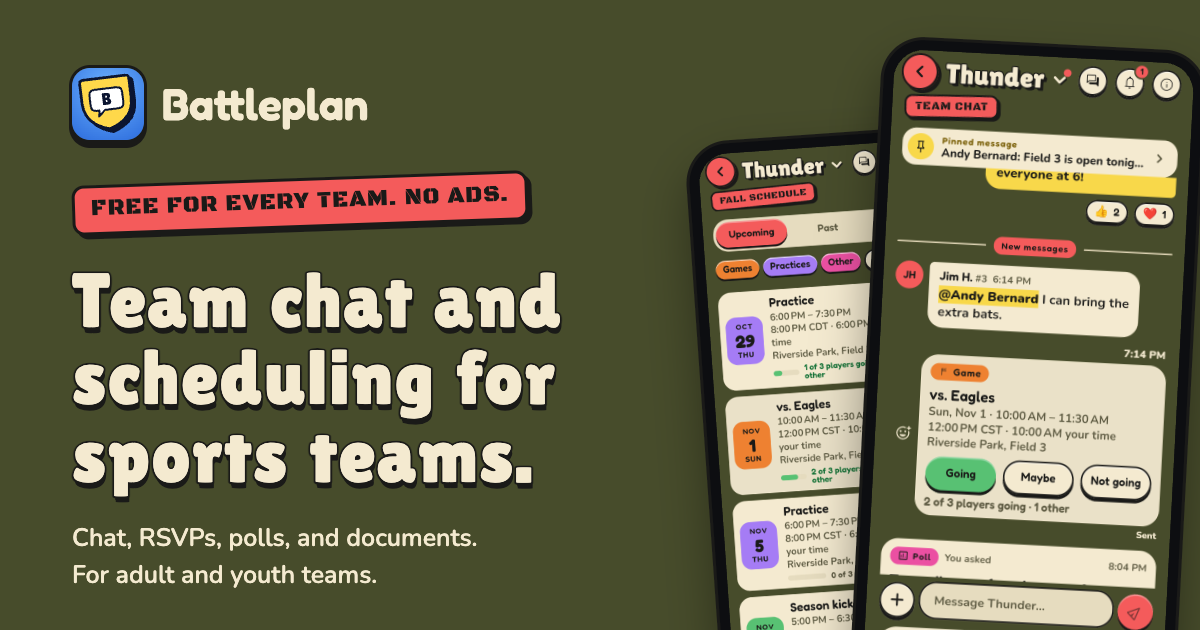
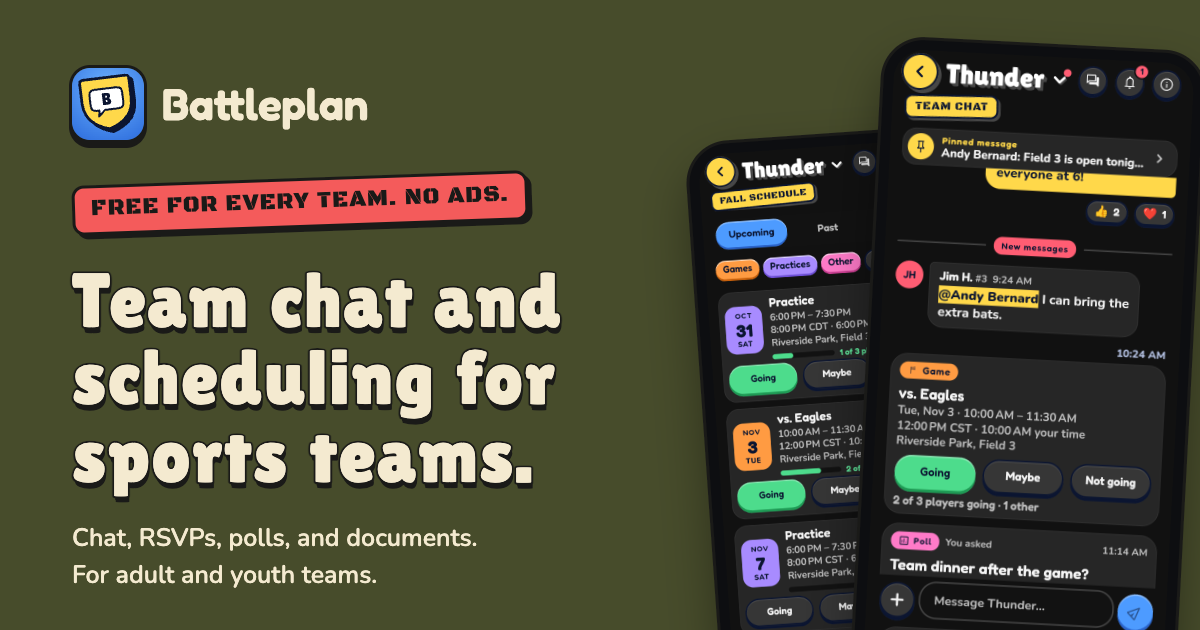
Landing page screenshots in Gumdrop Pop Dark on black
All ten shots and og.png are retaken from today's app on the emulators in
Gumdrop Pop Dark with each team's color set to Black, as images/*-dark.webp;
the Olive set is gone. The website README says how to take them.

diff --git a/website/index.html b/website/index.html
@@ -72,12 +72,12 @@
         <div class="hero-shots">
           <div class="phone">
             <picture>
-              <img src="/images/chat-olive.webp" width="600" height="1298" alt="The team chat in Battleplan: the coach's announcement with thumbs-up and heart reactions, then new messages: a player mentions the coach, a game card for the game against the Eagles with Going, Maybe, and Not going, and a poll about the team dinner.">
+              <img src="/images/chat-dark.webp" width="600" height="1298" alt="The team chat in Battleplan: the coach's announcement with thumbs-up and heart reactions, then new messages: a player mentions the coach, a game card for the game against the Eagles with Going, Maybe, and Not going, and a poll about the team dinner.">
             </picture>
           </div>
           <div class="phone sm" aria-hidden="true">
             <picture>
-              <img src="/images/teams-olive.webp" width="600" height="1298" alt="">
+              <img src="/images/teams-dark.webp" width="600" height="1298" alt="">
             </picture>
           </div>
         </div>
@@ -108,7 +108,7 @@
             <div class="feature-media">
               <div class="phone sm">
                 <picture>
-                  <img src="/images/conversation-olive.webp" width="600" height="1298" loading="lazy" alt="A team chat: a guardian asks who can carpool, another guardian replies to that message and gets a heart, the coach thanks that guardian with an @mention and the kickoff time, and a new message about a player's cleats.">
+                  <img src="/images/conversation-dark.webp" width="600" height="1298" loading="lazy" alt="A team chat: a guardian asks who can carpool, another guardian replies to that message and gets a heart, the coach thanks that guardian with an @mention and the kickoff time, and a new message about a player's cleats.">
                 </picture>
               </div>
             </div>
@@ -128,12 +128,12 @@
             <div class="feature-media pair">
               <div class="phone sm">
                 <picture>
-                  <img src="/images/event-olive.webp" width="600" height="1298" loading="lazy" alt="Event details for a game against the Eagles: date and time, opponent and home, the field with directions, a reminder one day before, Going, Maybe, and Not going buttons, and who's going: 2 of 3 players, each with who answered.">
+                  <img src="/images/event-dark.webp" width="600" height="1298" loading="lazy" alt="Event details for a game against the Eagles: date and time, opponent and home, the field with directions, a reminder one day before, Going, Maybe, and Not going buttons, and who's going: 2 of 3 players, each with who answered.">
                 </picture>
               </div>
               <div class="phone sm">
                 <picture>
-                  <img src="/images/schedule-olive.webp" width="600" height="1298" loading="lazy" alt="The team schedule: practices, a game against the Eagles, and a season kickoff barbecue, each with its time, place, your answer, and how many players are going.">
+                  <img src="/images/schedule-dark.webp" width="600" height="1298" loading="lazy" alt="The team schedule: two practices and a game against the Eagles, each with its time, place, how many players are going, and Going, Maybe, and Not going to answer right there.">
                 </picture>
               </div>
             </div>
@@ -153,7 +153,7 @@
             <div class="feature-media">
               <div class="phone sm">
                 <picture>
-                  <img src="/images/poll-olive.webp" width="600" height="1298" loading="lazy" alt="A poll in the team chat that takes more than one answer: which tournament weekend works? Nov 7–8 has 3 votes, Nov 14–15 has 2, and Dec 5–6 has none. Four people have voted; below, two guardians answer and the coach picks the weekend.">
+                  <img src="/images/poll-dark.webp" width="600" height="1298" loading="lazy" alt="A poll in the team chat that takes more than one answer: which tournament weekend works? Nov 7–8 has 3 votes, Nov 14–15 has 2, and Dec 5–6 has none. Four people have voted; below, two guardians answer and the coach picks the weekend.">
                 </picture>
               </div>
             </div>
@@ -173,7 +173,7 @@
             <div class="feature-media">
               <div class="phone sm">
                 <picture>
-                  <img src="/images/documents-olive.webp" width="600" height="1298" loading="lazy" alt="The Documents tab: a pinned Saturday lineup and league rules, a practice plan, a link to field directions, and a player waiver, each with its size, who added it, and when.">
+                  <img src="/images/documents-dark.webp" width="600" height="1298" loading="lazy" alt="The Documents tab: a pinned Saturday lineup and league rules, a practice plan, a link to field directions, and a player waiver, each with its size, who added it, and when.">
                 </picture>
               </div>
             </div>
@@ -193,7 +193,7 @@
             <div class="feature-media">
               <div class="phone sm">
                 <picture>
-                  <img src="/images/youth-olive.webp" width="600" height="1298" loading="lazy" alt="A guardian's RSVPs for practice, for two players: one answer for both, or one each. Luke #7 is going and Alex #9 hasn't answered yet. Below, 1 of 4 players going, each with the person who answered for them.">
+                  <img src="/images/youth-dark.webp" width="600" height="1298" loading="lazy" alt="A guardian's RSVPs for practice, for two players: one answer for both, or one each. Luke #7 is going and Alex #9 hasn't answered yet. Below, 1 of 4 players going, each with the person who answered for them.">
                 </picture>
               </div>
             </div>
@@ -214,12 +214,12 @@
               <div class="slides" role="region" aria-roledescription="carousel" aria-label="Plays on the whiteboard" tabindex="0">
                 <div class="phone sm" role="group" aria-roledescription="slide" aria-label="Baseball">
                   <picture>
-                    <img src="/images/whiteboard-olive.webp" width="600" height="1298" loading="lazy" alt="Plays, the coach's whiteboard: a relay home from right-center on a baseball diamond. The right fielder has the ball at the fence, the center fielder beside him, and throws to the second baseman, the relay. The first baseman is the cutoff on the line to the plate: the throw goes home, or he cuts it and throws to second. A runner in red heads home and the batter heads for second; the shortstop covers second, the left fielder backs up third, and the pitcher backs up the catcher. It's step 2 of 2, with a play button and the tools to move, add, and draw.">
+                    <img src="/images/whiteboard-dark.webp" width="600" height="1298" loading="lazy" alt="Plays, the coach's whiteboard: a relay home from right-center on a baseball diamond. The right fielder has the ball at the fence, the center fielder beside him, and throws to the second baseman, the relay. The first baseman is the cutoff on the line to the plate: the throw goes home, or he cuts it and throws to second. A runner in red heads home and the batter heads for second; the shortstop covers second, the left fielder backs up third, and the pitcher backs up the catcher. It's step 2 of 2, with a play button and the tools to move, add, and draw.">
                   </picture>
                 </div>
                 <div class="phone sm" role="group" aria-roledescription="slide" aria-label="Basketball">
                   <picture>
-                    <img src="/images/whiteboard-basketball-olive.webp" width="600" height="1298" loading="lazy" alt="A pick and roll on a basketball half court: the offense in blue and the defense in red, the center coming up to set a screen for the point guard, who dribbles to the right off it, step 1 of 2.">
+                    <img src="/images/whiteboard-basketball-dark.webp" width="600" height="1298" loading="lazy" alt="A pick and roll on a basketball half court: the offense in blue and the defense in red, the center coming up to set a screen for the point guard, who dribbles to the right off it, step 1 of 2.">
                   </picture>
                 </div>
               </div>

diff --git a/website/README.md b/website/README.md
@@ -15,7 +15,7 @@ The static website at the root of `getbattleplan.app` (SPEC §4.3 WEB-1 to WEB-5
 | `site.css` | All styles, in one theme: Gumdrop Army, the app's default (an army-green page with cream text, cream cards with ink text, gumdrop buttons outlined in ink on a hard ink lip, coral accents, and cream Lilita One headings outlined in ink over a stacked ink shadow; headings on the cream cards are plain ink, with no shadow). No light theme and no `prefers-color-scheme` switch |
 | `fonts/` | Lilita One (headings), Fredoka (buttons, labels, questions), Nunito (body), and Black Ops One (the coral sticker, capitals only) as Latin `woff2` files from Google Fonts, served from this site so it makes no third-party requests, with each font's `*-OFL.txt` license. Fredoka and Nunito are variable fonts (one file covers every weight) |
 | `favicon.svg`, `favicon-32.png`, `apple-touch-icon.png` | Icons: the brand mark (SPEC §7.1). `favicon.svg` is also the header mark; `tools/brand_icons.sh` makes the PNGs from it and `assets/brand/icon.svg` |
-| `images/*-olive.webp` | App screenshots in Gumdrop Army, 600 × 1298 |
+| `images/*-dark.webp` | App screenshots in Gumdrop Pop Dark with the teams' color set to Black, 600 × 1298 |
 | `images/og.png` | Open Graph and Twitter card image, 1200 × 630 |
 | `robots.txt`, `sitemap.xml` | The site is indexed; `/app/` is not |
 
@@ -27,7 +27,7 @@ Hosting serves `support.html` at `/support` because `firebase.json` sets `cleanU
 - Colors: use the tokens on `:root` in `site.css` (the app's Gumdrop Army colors): `--text` and `--muted` on the olive page, `--card-text`, `--card-muted`, and `--card-link` on cream cards. Text needs 4.5:1 contrast on its background; the coral is for faces with ink on them, never for text on the page.
 - Each page carries its own header and footer. When you change the nav or footer, change it in all six HTML files.
 - Keep the page `<title>`, `description`, `og:*`, and `twitter:*` tags in step when you change a page's purpose.
-- Images: give every `<img>` a `width`, `height`, and real `alt` text (or `alt=""` when decorative). Screenshots use the `-olive` capture. Keep `images/` under about 2 MB.
+- Images: give every `<img>` a `width`, `height`, and real `alt` text (or `alt=""` when decorative). Screenshots use the `-dark` capture. Keep `images/` under about 2 MB.
 - Text and UI paths should match the app's English strings (`lib/l10n/app_en.arb`), for example **Settings** → **Delete account**.
 - On the landing page, say **players** and **guardians**: never kids, children, or parents (the owner's rule, 2026-10-16). Accounts are for adults; players who don't use the app are roster entries their guardians answer for.
 - A pair of phones (`feature-media pair`) shows both side by side from 1100 px and only the first below that. Add `slider`, with the phones in a `slides` div and a `slider-dots` div after it, as the Plays pair has, to let narrower screens swipe between them.
@@ -57,7 +57,7 @@ The screenshots show the app with the seeded sample teams (Thunder, Cyclone, and
 | `whiteboard` | `coach@example.com` | Cyclone's whiteboard with **Relay home from right-center** on it, at **Next step** (step 2 of 2, the throws: RF to 2B, the relay, to 1B, the cutoff) |
 | `whiteboard-basketball` | `coach@example.com` | Thunder's whiteboard with **Pick and roll** on it (step 1 of 2) |
 
-The current set (Gumdrop Army, 2026-10-27; the shots with a sticker retaken 2026-10-28 for its stencil font) are captures of the real web app against the emulators: start them, seed them (DEVELOPMENT.md), and build from a scratch copy with `bannerLabel` in `lib/core/env.dart` returning null (never commit that), with `flutter build web -t lib/main_dev.dart --dart-define=USE_EMULATORS=true --no-web-resources-cdn --base-href /app/` (CanvasKit: headless Chrome doesn't paint the wasm build), plus `tools/fetch_fallback_fonts.dart` into its `fonts/fallback/` for the emoji. Serve it under `/app/` and drive headless Chrome at 390 × 844 with a device scale of 600 / 390: hide `.firebase-emulator-warning`, sign in, open each screen by its route (`history.pushState` and a `popstate` event, since a reload signs out), and press buttons through the semantics tree (clicking a `flt-semantics[role=button]` element), since synthetic mouse clicks don't reach some of them. Take Thunder's chat first after seeding, so it opens at the first unread message. Then convert each PNG to WebP at quality 80 (headless Chrome's `canvas.toDataURL('image/webp', 0.8)` works where `cwebp` isn't installed) as `images/<name>-olive.webp`.
+The current set (Gumdrop Pop Dark on black, 2026-10-29, the owner's request) are captures of the real web app against the emulators: start them, seed them (DEVELOPMENT.md), set `themeMode` to `dark` on `users/coach`, `users/claire`, and `users/rachel` and `color` to `#111111` (Black) on `groups/thunder`, `groups/cyclone`, and `groups/possums` (the emulator's REST API with `Authorization: Bearer owner`), and build from a scratch copy with `bannerLabel` in `lib/core/env.dart` returning null (never commit that), with `flutter build web -t lib/main_dev.dart --dart-define=USE_EMULATORS=true --no-web-resources-cdn --base-href /app/` (CanvasKit: headless Chrome doesn't paint the wasm build), plus `tools/fetch_fallback_fonts.dart` into its `fonts/fallback/` for the emoji. Serve it under `/app/` and drive headless Chrome at 390 × 844 with a device scale of 600 / 390: hide `.firebase-emulator-warning`, sign in with the keyboard alone (Tab to Email and to Password, typing in each, then Sign in through the semantics tree: Flutter keeps a mouse's hover where it last clicked, which lights up whatever later sits there), open each screen by its route (`history.pushState` and a `popstate` event, since a reload signs out), and press buttons through the semantics tree (clicking a `flt-semantics[role=button]` element), since synthetic mouse clicks don't reach some of them. Take Thunder's chat first after seeding, so it opens at the first unread message. Then convert each PNG to WebP at quality 80 (headless Chrome's `canvas.toDataURL('image/webp', 0.8)` works where `cwebp` isn't installed) as `images/<name>-dark.webp`.
 
 Regenerate `images/og.png` at 1200 × 630 from the new `chat` and `schedule` shots, keeping its layout: the brand mark, the coral sticker (in Black Ops One), and the heading and copy on the left, the chat in front of the schedule on the right. It's a plain HTML page using `fonts/` and the two PNG captures, screenshotted in headless Chrome at 1200 × 630.
 

diff --git a/docs/ROADMAP.md b/docs/ROADMAP.md
@@ -288,6 +288,7 @@ The owner's request (2026-10-25): Gumdrop Pop Navy as the default look, named Gu
 320. ✅ Going, Maybe, and Not going on each event in the schedule (owner's request 2026-10-28: "add the ability for guardians to mark going/not going/maybe directly from the listing of events… if one of the options is selected, clicking on that option again unselects it", after the TeamApp-style mockup; SPEC SCHED-4). *An upcoming event I can still answer has the three buttons across the bottom of its card, under the counts, as the chat card has them: a set for each person I answer for, named when there's more than one, with Maybe only where the team allows it. A tap answers; a tap on the chosen answer clears it. They replace the answer sheet the list opened since 2026-10-26; notes and All my players are on the event's page. Past, canceled, and closed events still show my answer as before. The accessibility check scrolls the list so no answer sits under the + button, which it would otherwise read as their color.*
 321. ✅ Groups beside teams (owner's request 2026-10-29: "add a generic group to the new team creation window… the group should share all features except ones specific to guardian-player relationships so its just everyone speaking and RSVPing for themselves, and remove the plays section from that"; SPEC TEAM-14, ARCH §6.2). *Creating one picks **Team** or **Group**; a group has no sport. In a group there are no players, guardians, coaches, "Who are you here for?", or Plays tab; everyone answers RSVPs for themselves, the counts are of members, and its roster is **People**. Team info, Teams, the switcher, joining, admin settings, and the TeamSnap import follow. The server and rules hold the same line for older apps, which show a group as a team: no players, guardians, player answers, coaches, sport, or plays in a group. Still to do: the RSVP reminder email (SCHED-14) reaches players' people only, so a group doesn't offer it yet; the super-admin panel doesn't label groups yet; and some wording still says team (Team info, Team admin, Join a team).*
 322. ✅ Join a Team or Group, Create a Group, and Make it a team (owner's request 2026-10-29: "Change join a team to say "Join a Team or Group" and then add "Create a Group" as an option below Create a Team. Then, add an option in a group's settings to convert a group to a team… a group is more limited and should be designed for extreme simplicity"; SPEC TEAM-1, TEAM-14). *Teams and the team switcher say **Join a Team or Group**, **Create a Team**, and below it **Create a Group**, which asks only for a name and a color (time zone from the device; logo and description in Group admin) instead of the Team/Group switch. A group's pages say Group info, Group admin, and Join group. **Make it a team** in Group admin, for the owner and super admins, picks a sport and makes the group a team through the new `convertToTeam` callable: players, guardians, coaches, and Plays, with everything else kept and a line in the chat. A team can't become a group.*
+323. ✅ The landing page's screenshots in Gumdrop Pop Dark on black (owner's request 2026-10-29: "create fresh screenshots for the landing page but have the screenshots be as if gumdrop dark with a black background was chosen instead of the olive"). *All ten shots and `og.png` are retaken from today's app on the emulators in Gumdrop Pop Dark with each team's color set to Black, so every team screen has a black background; they're `images/*-dark.webp`, and the Olive set is gone. They show the schedule's answer buttons and Create a Group. The App Store set is unchanged.*
 312. ✅ Gumdrop Olive, a fifth theme and the new default (owner's request 2026-10-26: "add gumdrop olive as an available theme. make it default."; SPEC SET-2, §7.4). *From the V1 Olive design: an olive page with cream text, cream cards and buttons outlined in near-black, coral for your messages, the sticker, and the back button, outlined candies and headings. It keeps its olive page in every team. First in Settings and the account menu; accounts that never picked a theme (`system`) and new accounts get it, while accounts set to Dark stay on Dark. The rules accept `olive`. The web app's splash and the iOS and Android launch screens are olive too. Tested in its own unit tests, the contrast checks for every team color, the accessibility checks, and goldens. The website is redone in Olive too (owner's request 2026-10-26: "also update the landing page to be the gumdrop pop olive theme"), with new screenshots and Open Graph image from the web app on the emulators. Along the way: the whiteboard's picked tool, Play, and Save buttons drew their icons in their own face's color on a colored page (Olive, and Candy before it); they're ink now.*
 311. ✅ The web app's fallback fonts come from our own site (owner's go 2026-10-26; ARCH §5.5). *Roboto, which the engine loaded from `fonts.gstatic.com` at every start, Noto Color Emoji, and the Noto fonts for other scripts are served under `/app/fonts/fallback/` with their OFL; the Hosting build downloads the engine's own list (about 725 files, 22 MB) rather than keeping them in the repo. Checked in Chrome against the emulators: no requests to fonts.gstatic.com.*
 298. 👤 **Jared:** Run **Release to prod** once 1.1 is pushed and CI passes, to put the web app and the website on `getbattleplan.app`.
